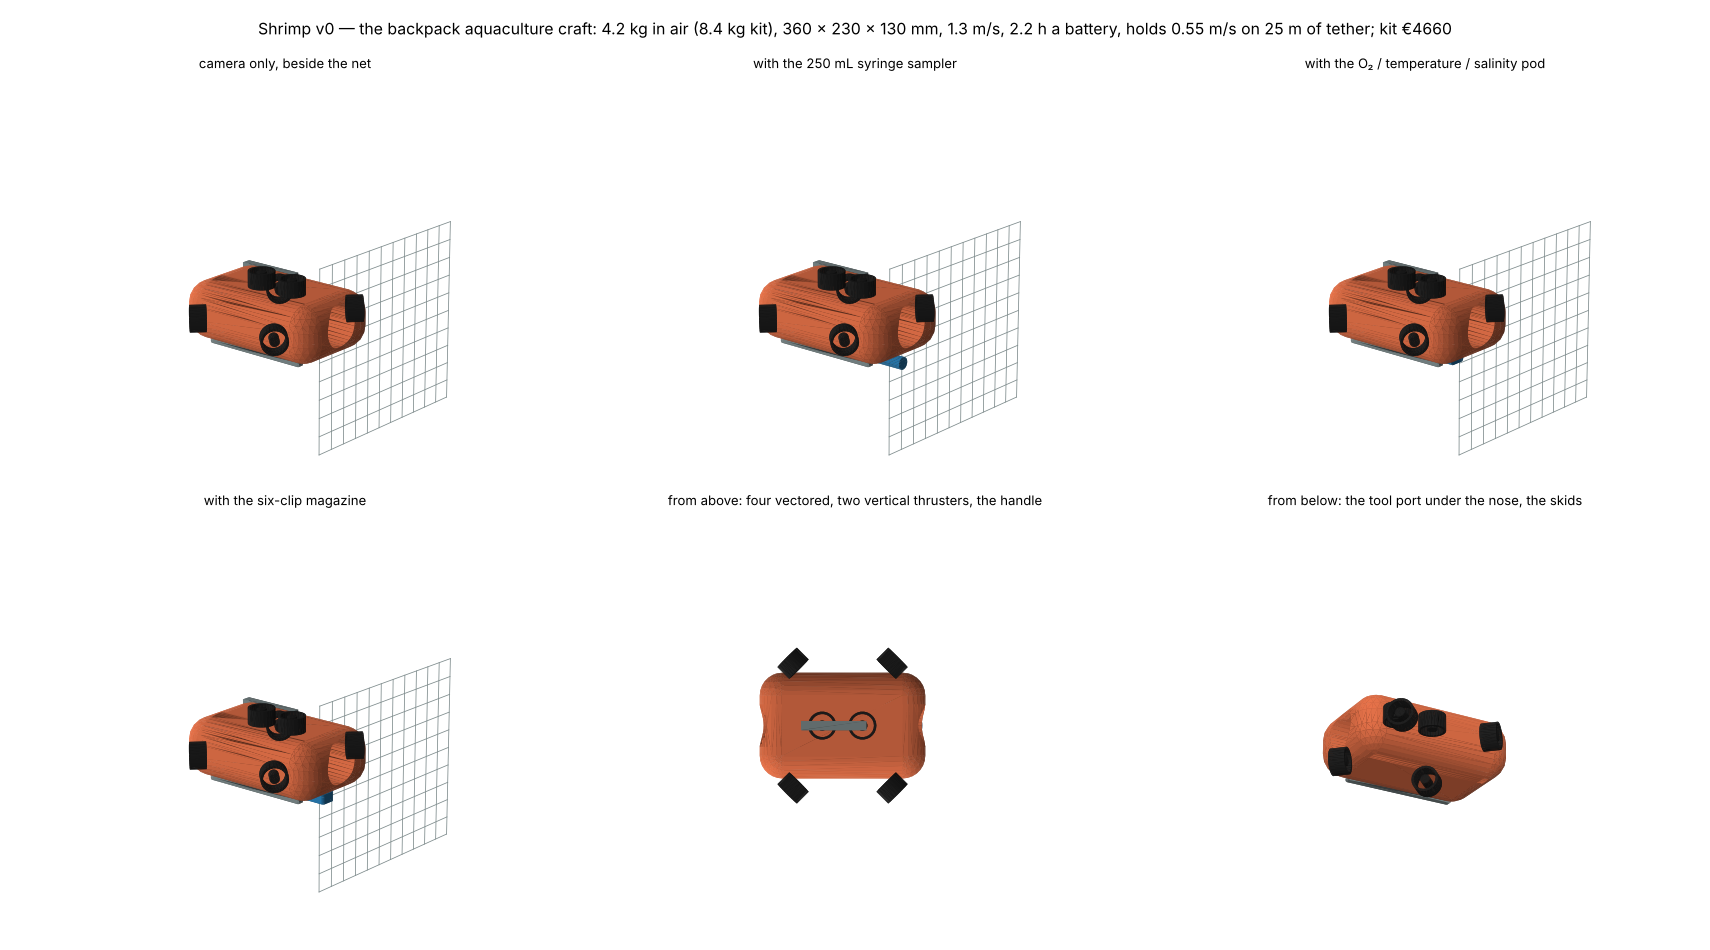
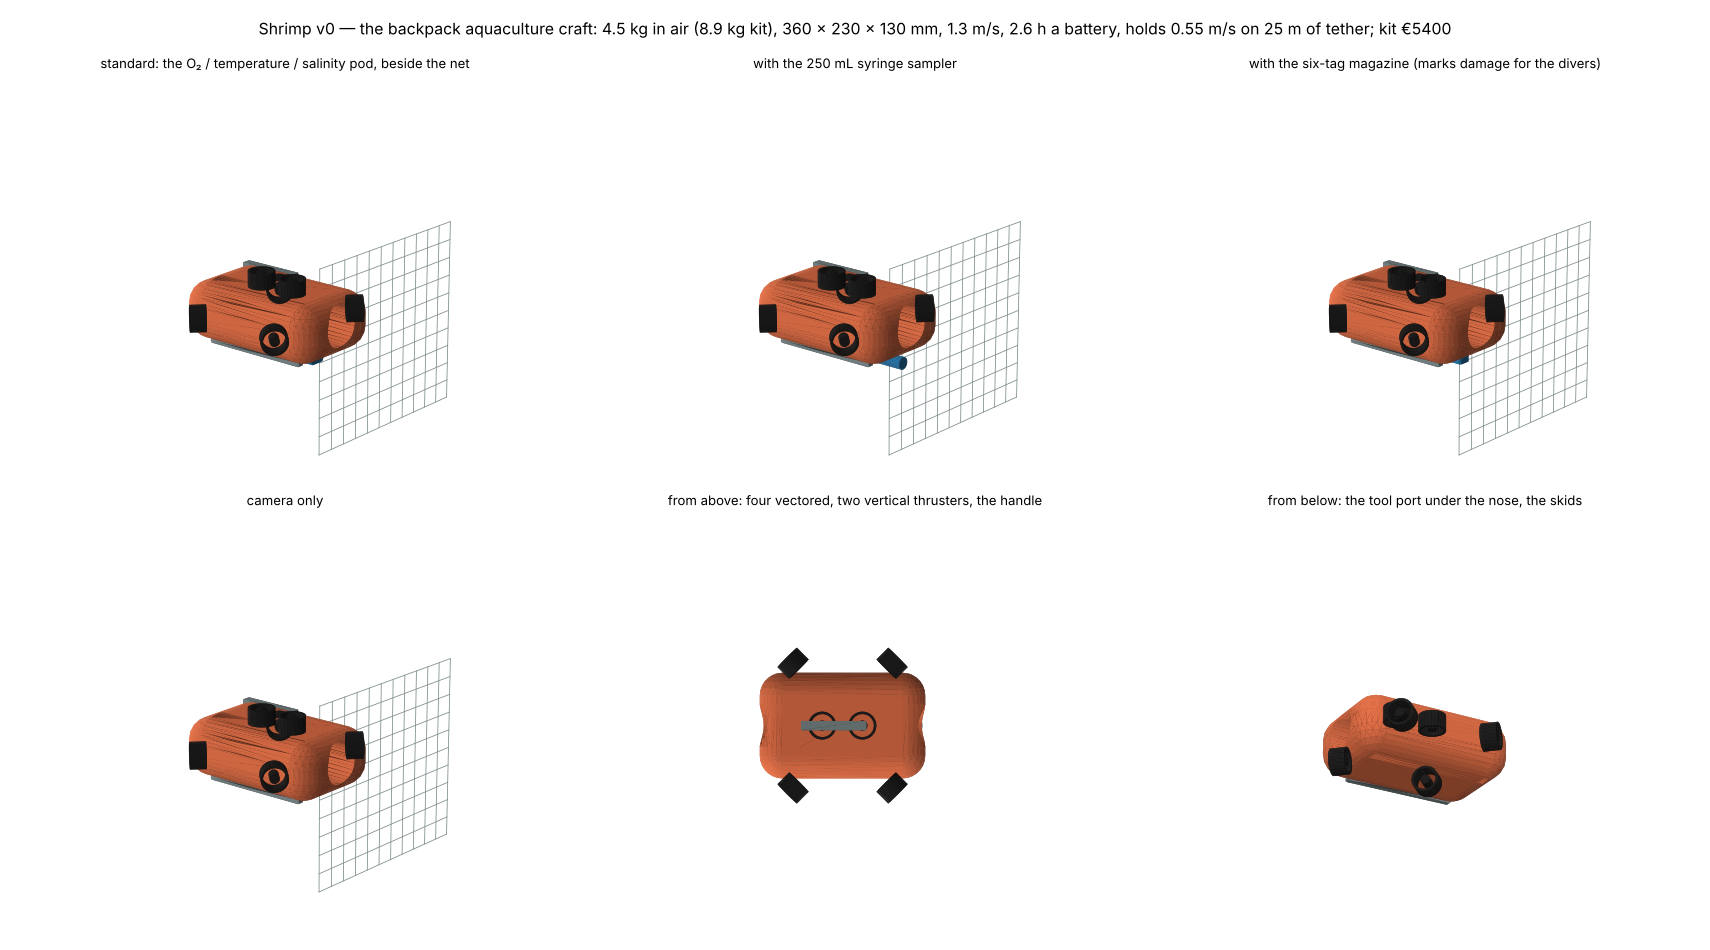
Shrimp round 2: the brain on the surface (Jetson in the tether box, an MCU and an auto-surface reflex aboard), the probe pod standard with the 4-minute oxygen profile, tags instead of clips, fish safety in firmware, the net as its own ruler; brief, sizing, drawing, tests
Claude-Session: https://claude.ai/code/session_01JpTMNuaL4GVaAwMq9bN2fh

diff --git a/labs/marine/designs/shrimp.py b/labs/marine/designs/shrimp.py
@@ -1,8 +1,10 @@
 """Shrimp: the smallest of the family (Scampi, Echensis, Cyclopterus, Nephro, Squilla: ``scampi.md`` and on) — a
 backpack-held craft for aquaculture work. One person carries it to the pen, drops it in by hand, flies it from a
 tablet on a 50 m tether, and packs it back. Jobs: net inspection (holes, biofouling, mooring lines), mortality
-spotting and counting, feeding and behaviour observation, water sampling and probing at depth; a Jetson Orin Nano
-aboard runs the family's net-following and hole/mort detection so the operator supervises rather than pilots.
+spotting and counting, feeding and behaviour observation, water sampling, and the daily oxygen profile (the probe
+pod is standard). The brain is on the surface: the family's net-following and hole/mort detection run on a Jetson
+Orin Nano in the tether box, the vehicle keeps only a microcontroller (thrusters, IMU, depth, the video encoder) and
+an auto-surface reflex (round 2 of ``shrimp.md``).
 
 Requirements (``REQUIREMENTS``): the whole kit in one backpack under 10 kg; the vehicle under 5 kg and hand-launched;
 50 m depth (nets are 20–40 m); works in the pen's current; fish-safe (ducted, guarded thrusters, no sharp edges);
@@ -38,9 +40,9 @@ REQUIREMENTS = {
 }
 #: Bought parts: (mass kg, volume L, average power W, price EUR) — class values, not quotes.
 PARTS = {
-    "Jetson Orin Nano 8GB + carrier": (0.15, 0.0, 10.0, 350.0),
+    "vehicle MCU (thrusters, IMU, depth) + video encoder": (0.05, 0.02, 3.0, 60.0),
     "6 micro ducted thrusters with guards (60 mm)": (6 * 0.14, 6 * 0.06, 0.0, 6 * 110.0),
-    "camera (4K, low light) + 2 dimmable lights": (0.25, 0.15, 12.0, 350.0),
+    "camera (4K, low light) + 2 dimmable white/red lights + strobe": (0.27, 0.16, 12.0, 380.0),
     "IMU + depth + leak sensors": (0.05, 0.02, 1.0, 150.0),
     "tether interface (Ethernet over 2-wire)": (0.05, 0.02, 2.0, 120.0),
     "Li-ion battery 100 Wh, 14.4 V + BMS (swappable)": (0.60, 0.35, 0.0, 120.0),
@@ -51,15 +53,16 @@ PARTS = {
 #: What stays on the surface: (mass kg, price EUR).
 SURFACE = {
     "tether 50 m, 3 mm, neutral + hand reel": (1.60, 650.0),
-    "rugged tablet + gamepad + tether box": (1.20, 900.0),
+    "tether box with the Jetson Orin Nano (the brain) + rugged tablet + gamepad": (1.40, 1250.0),
     "backpack, spare battery, charger": (1.40, 220.0),
 }
 TOOLS = {   # mass kg, volume L, power W while working, price EUR, what
-    "none": (0.0, 0.0, 0.0, 0.0, "camera only"),
+    "probe": (0.30, 0.20, 2.0, 650.0, "the standard pod: dissolved oxygen, temperature, salinity, logged with depth (the daily O2 profile)"),
     "sampler": (0.35, 0.30, 5.0, 180.0, "a 250 mL syringe sampler, triggered at depth: water for lab analysis"),
-    "probe": (0.30, 0.20, 2.0, 650.0, "a pod with dissolved oxygen, temperature and salinity probes, logged with depth"),
-    "clip": (0.45, 0.30, 15.0, 420.0, "a six-clip magazine: closes a small hole (to ~0.1 m) with polymer clips, the big ones are reported"),
+    "tags": (0.25, 0.20, 3.0, 120.0, "a magazine of six numbered clip-on tags: marks a hole or a damaged line for the divers; nothing is repaired"),
+    "none": (0.0, 0.0, 0.0, 0.0, "camera only"),
 }
+PROFILE = {"depth_m": 40.0, "vertical_m_s": 0.5, "dwell_s": 10.0}        # the oxygen profile dive: down the net's depth and back
 TETHER_D, TETHER_CD = 0.003, 1.2
 
 
@@ -67,7 +70,7 @@ class Shrimp(Design):
     parameters = [
         Parameter("part", "vehicle", choices=("vehicle", "shell", "housing", "thrusters", "lights", "tool_body", "handle", "skids"),
                   description="what to build"),
-        Parameter("tool", "none", choices=tuple(TOOLS), description="the tool on the port"),
+        Parameter("tool", "probe", choices=tuple(TOOLS), description="the tool on the port"),
         Parameter("length", 360.0, "mm", min=200),
         Parameter("width", 230.0, "mm", min=120),
         Parameter("height", 130.0, "mm", min=80),
@@ -121,11 +124,12 @@ class Shrimp(Design):
         net_area = 160.0 * 30.0 + math.pi * (160 / (2 * math.pi)) ** 2 * 1.2
         rate = p["camera_swath_m"] * p["inspect_speed"] * 3600 * 0.8
         price = sum(c for _, _, _, c in PARTS.values()) + sum(c for _, c in SURFACE.values()) + tc
+        profile_min = (2 * PROFILE["depth_m"] / PROFILE["vertical_m_s"] + PROFILE["dwell_s"] * (PROFILE["depth_m"] / 5)) / 60
         return {"mass_in_air_kg": m, "displacement_L": V * 1000, "trim_kg": trim_kg, "backpack_kg": backpack,
                 "v_max_m_s": v_max, "thrust_fwd_N": T_fwd, "hull_drag_N": hull_drag, "tether_drag_N": tether_drag,
                 "hold_margin": hold_margin, "current_max_m_s": u_max, "tether_max_at_0.5_m": tether_max,
                 "hotel_W": hotel, "swim_W": swim_W, "dive_h": dive_h, "net_area_m2": net_area, "inspect_rate_m2_h": rate,
-                "pen_inspection_h": net_area / rate, "dives_per_pen": (net_area / rate) / dive_h,
+                "pen_inspection_h": net_area / rate, "dives_per_pen": (net_area / rate) / dive_h, "profile_min": profile_min,
                 "kit_price_eur": price, "price_all_tools_eur": price - tc + sum(t[3] for t in TOOLS.values())}
 
     # ------------------------------------------------------------------------------------------- CAD
@@ -184,7 +188,7 @@ class Shrimp(Design):
             return cq.Workplane("YZ").workplane(offset=L * 0.05).center(0, -14).circle(14).extrude(140)
         if p["tool"] == "probe":
             return cq.Workplane("XY").box(70, 40, 24).edges("|X").fillet(6).translate((L * 0.22, 0, -12))
-        return cq.Workplane("XY").box(90, 36, 22).edges("|Z").fillet(5).translate((L * 0.28, 0, -11))   # clip magazine
+        return cq.Workplane("XY").box(70, 30, 18).edges("|Z").fillet(5).translate((L * 0.28, 0, -9))    # the tag magazine
 
     def _handle(self, p):
         L, H = p["length"], p["height"]
@@ -218,4 +222,4 @@ if __name__ == "__main__":
               f"hold margin {s['hold_margin']:+.2f} at 25 m tether, dive {s['dive_h']:.1f} h, kit EUR {s['kit_price_eur']:.0f}")
     s = Shrimp.sizing()
     print(f"current max at 25 m tether {s['current_max_m_s']:.2f} m/s; tether max at 0.5 m/s {s['tether_max_at_0.5_m']:.0f} m; "
-          f"pen {s['pen_inspection_h']:.1f} h = {s['dives_per_pen']:.1f} dives; all tools EUR {s['price_all_tools_eur']:.0f}")
+          f"pen {s['pen_inspection_h']:.1f} h = {s['dives_per_pen']:.1f} dives; an O2 profile {s['profile_min']:.0f} min; all tools EUR {s['price_all_tools_eur']:.0f}")

diff --git a/labs/marine/designs/shrimp_draw3d.py b/labs/marine/designs/shrimp_draw3d.py
@@ -38,9 +38,9 @@ def draw(ax, p, elev=18, azim=-50, net=True):
 
 def main(out="shrimp_3d.png"):
     fig = plt.figure(figsize=(18, 10))
-    views = [("none", 18, -50, "camera only, beside the net"), ("sampler", 18, -50, "with the 250 mL syringe sampler"),
-             ("probe", 18, -50, "with the O₂ / temperature / salinity pod"), ("clip", 18, -50, "with the six-clip magazine"),
-             ("none", 90, -90, "from above: four vectored, two vertical thrusters, the handle"), ("none", -25, -120, "from below: the tool port under the nose, the skids")]
+    views = [("probe", 18, -50, "standard: the O₂ / temperature / salinity pod, beside the net"), ("sampler", 18, -50, "with the 250 mL syringe sampler"),
+             ("tags", 18, -50, "with the six-tag magazine (marks damage for the divers)"), ("none", 18, -50, "camera only"),
+             ("probe", 90, -90, "from above: four vectored, two vertical thrusters, the handle"), ("probe", -25, -120, "from below: the tool port under the nose, the skids")]
     for k, (tool, el, az, title) in enumerate(views):
         ax = fig.add_subplot(2, 3, k + 1, projection="3d")
         draw(ax, Shrimp.p({"tool": tool}), el, az, net=(k < 4))

diff --git a/labs/marine/tests/test_shrimp.py b/labs/marine/tests/test_shrimp.py
@@ -21,6 +21,7 @@ def test_the_tether_sets_the_envelope():
     assert Shrimp.sizing({"tether_exposed_m": 50.0})["hold_margin"] < 0   # the full 50 m out in 0.5 m/s: no
     assert 20 < s["tether_max_at_0.5_m"] < 60
     assert 2 < s["dives_per_pen"] < 6
+    assert 3 < s["profile_min"] < 10                                  # the daily oxygen profile is a short dive
 
 
 def test_cad_builds_with_each_tool():

diff --git a/labs/marine/designs/shrimp.md b/labs/marine/designs/shrimp.md
@@ -19,20 +19,42 @@ from the first day, on any site, with the same autonomy stack scaled to a Jetson
 
 ## v0 numbers (`python labs/marine/designs/shrimp.py`)
 
-* 360 × 230 × 130 mm, a rounded shell round one Ø90 × 250 mm tube (dome front, tether port back); **4.2 kg in
-  air** (4.5–4.7 with a tool), trimmed with 0.1–0.3 kg of lead; the whole kit **8.4–8.9 kg**.
+* 360 × 230 × 130 mm, a rounded shell round one Ø90 × 250 mm tube (dome front, tether port back); **4.2–4.5 kg
+  in air** with the tool, trimmed with ~0.3 kg of lead; the whole kit **8.6–8.9 kg**.
 * Six 60 mm ducted thrusters at 6 N each (four vectored at 45°, two vertical): 17 N forward, **1.26 m/s** flat out.
-* Battery 100 Wh (swappable): **2.0–2.2 h** a dive at the inspection speed. A 160 m pen's net (7 250 m²) at a
+* Battery 100 Wh (swappable): **2.5–2.6 h** a dive at the inspection speed (the brain on the surface, round 2). A 160 m pen's net (7 250 m²) at a
   1 m swath and 0.3 m/s takes 8.4 h: **four dives** — this is an inspection craft, not a one-charge-per-pen one.
 * **The tether sets the envelope, not the hull.** In 0.5 m/s with 25 m of tether out, the tether's drag (14 N)
   is five times the hull's (3 N) and the thrusters hold with a 19 % margin; with the full 50 m out they cannot. So:
   0.5 m/s on up to **31 m** of tether, 0.55 m/s at 25 m, or slack water for the deep end of the net. The operator
   pays out only what the depth needs.
-* Price (class prices): **€4.7k** camera-only, €5.3k with the probe, **€5.9k with all three tools**.
+* Price (class prices, round 2): **€5.4k** the base kit with the probe pod, €5.7k with all tools; the vehicle alone
+  €2.6k, the surface box with the Jetson, tablet and reel the rest.
 
-## Open questions (next round)
+## Decisions (round 2: the open questions answered, and some ideas added)
 
-1. Rated depth: 50 m covers salmon pens; mussel and seaweed lines are shallower; is there a deeper site?
-2. Should the tablet do the inference instead (a cheaper vehicle, no Jetson aboard, the video goes up anyway)?
-3. The clip tool at this size: worth it, or inspection-and-report only?
-4. Red light at night and a slow mode near fish: fixed in software, or a physical "fish mode" switch?
+| question | decision | why |
+|---|---|---|
+| rated depth | **50 m stays**; a 100 m variant is a thicker tube (+0.3 kg, +€150) for the odd deep site, not the default | salmon nets are 20–40 m; mussel and seaweed lines shallower; the tether, not the tube, limits the deep end anyway |
+| where the brain is | **on the surface**: the Jetson Orin Nano moves into the tether box; the vehicle keeps a microcontroller (thrusters, IMU, depth, the video encoder) and an **auto-surface reflex** | the video goes up the tether anyway (100 Mb/s, no added latency to speak of); the vehicle gets lighter, cheaper (€5.4k → the vehicle itself €2.6k) and dumber, which is what you want in the thing that gets lost; a vehicle that loses its tether floats up on its 50 g of positive trim, strobes, and holds a heading on its MCU |
+| the clip tool | **dropped**; replaced by a magazine of six numbered **clip-on tags** | a hand-launched 4 kg craft should not be mending nets in a current; it should *find and mark* — a tag at the hole and a GPS-less "tether length + heading + depth" fix in the report send the divers straight there |
+| fish safety | **in software, enforced in firmware**: a near-fish thrust cap (≤ 0.3 m/s when the detector sees fish inside 1 m), red light by the clock at night; the lights' colour is the visible state, no switch to forget | a switch is one more thing to leave in the wrong position |
+
+Ideas added:
+
+* **The probe pod is standard**, not optional: a 40 m **oxygen profile** takes 4 minutes, and a daily O₂ profile
+  is the single most valuable number a farm can get from a craft this size (oxygen crashes kill pens). Base kit
+  **€5.4k**; all tools €5.7k.
+* **The net is its own ruler**: the mesh pitch is known (25–30 mm), so the camera's view of it gives the distance
+  to the net without a sonar — the net-following loop uses it; a €2.8k sensor stays out.
+* **Lanes with the tether paid out by the operator**: the autonomy flies the lane at constant net distance; the
+  operator only manages the reel (and is told "pay out" / "take in" on the tablet from the depth and the tether
+  tension), which is what keeps the exposed length — and its drag — minimal.
+* A **top strobe** and the auto-surface reflex: the two cheapest things that stop a craft being lost.
+* The report: holes, morts (counted per lane, not per sighting: the lanes overlap 20 %), fouling score per lane,
+  the O₂ profile — one page per dive, sent from the tablet before the backpack is closed.
+
+## Open questions (round 3)
+
+1. A farm's fleet: one kit per site, or one per technician? (The kit price makes the second one easy.)
+2. Krill-sized next: is there a case for a 1 kg "look only" version with no tool port at all?
